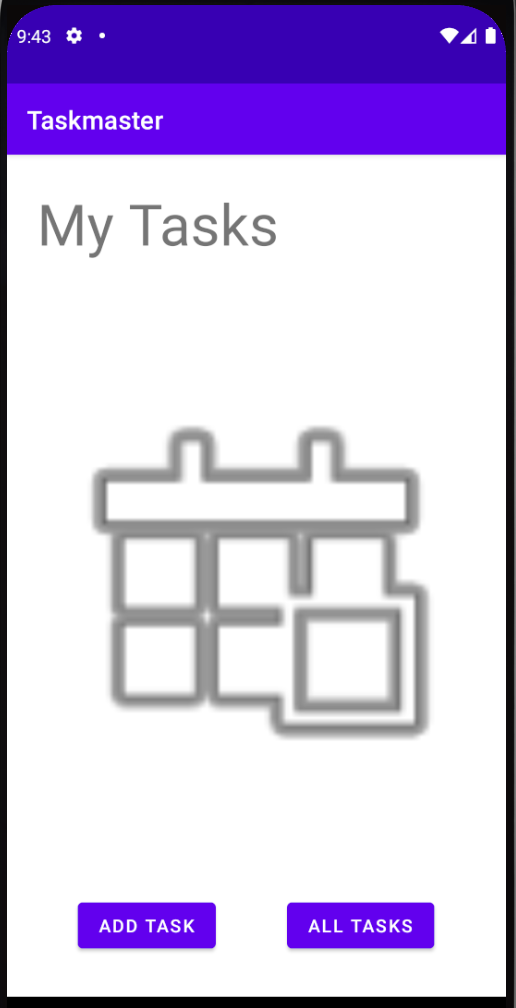
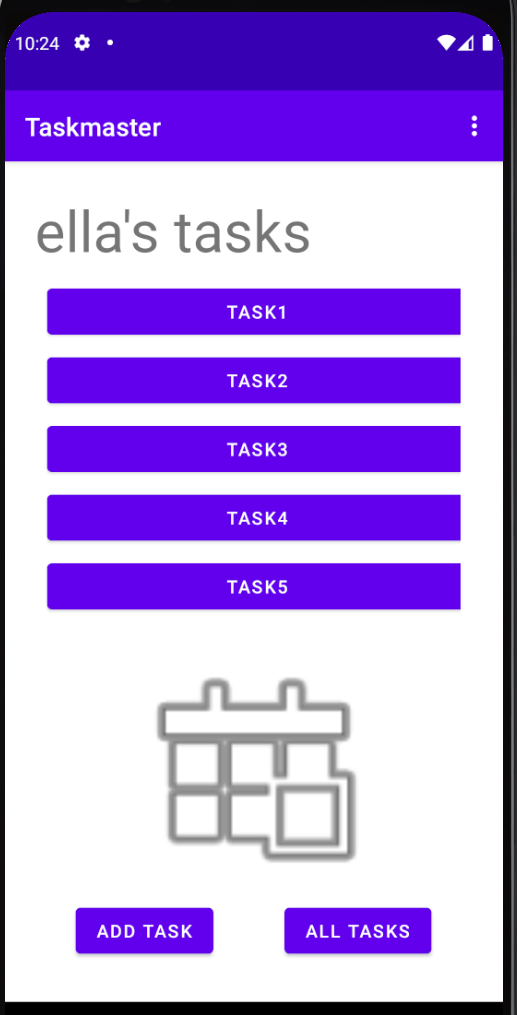
Updates README.md

diff --git a/README.md b/README.md
@@ -13,4 +13,8 @@ v 0.2
 * Adds settings screen and menu dropdown.
 * Adds task detail page with 4 static tasks on the homepage.
 
+v 0.3
+* Adds tasks to the front page within a RecyclerView
+* Lays out groundwork to store tasks within an abstract class and easily update them
+
 ![image description](screenshots/homepage.PNG)
